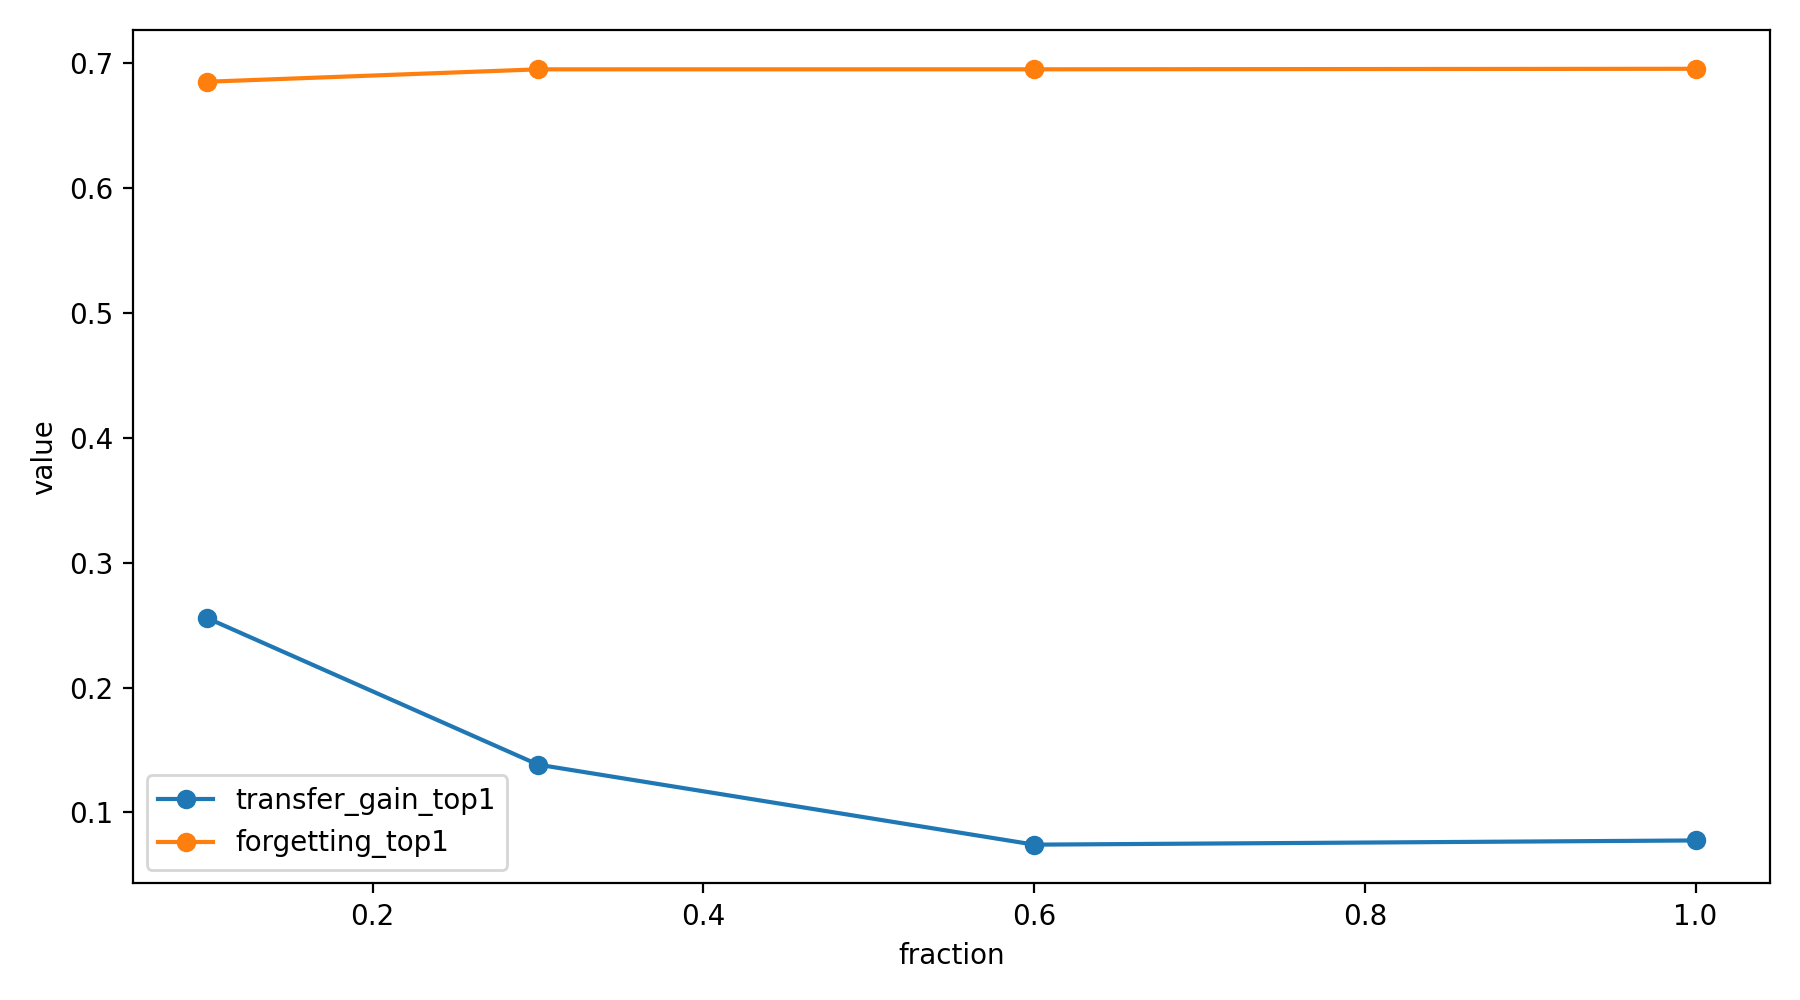
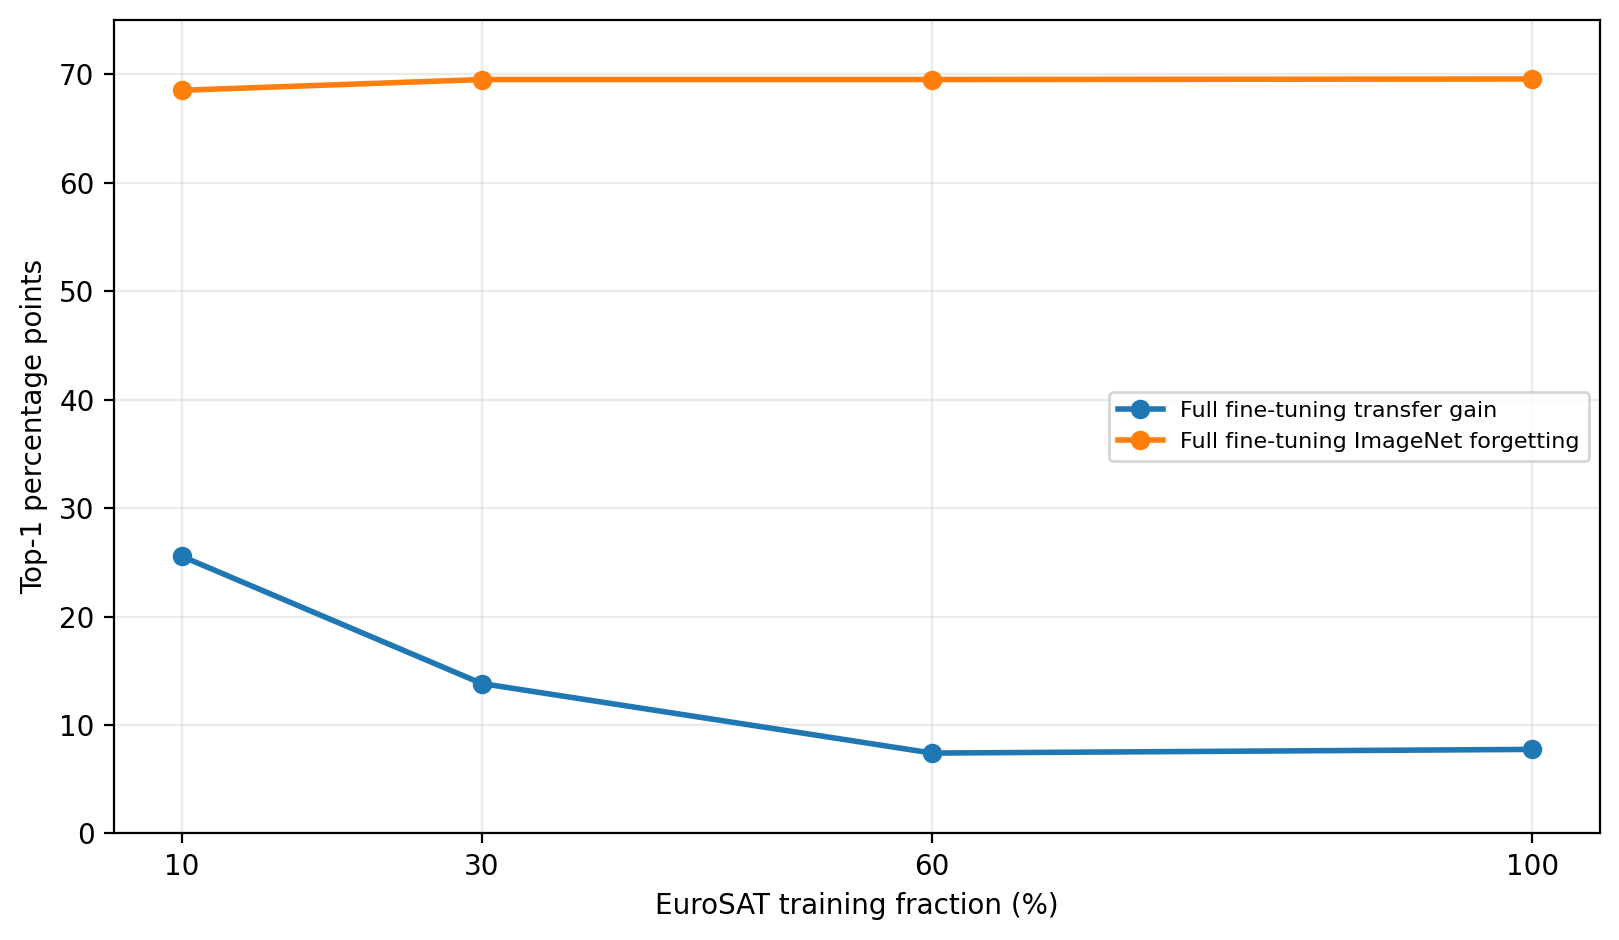
first version

Changed region(s): [[0.0, 0.0, 1.0, 0.9255], [0.4015, 0.9255, 0.6485, 0.9872], [0.3088, 0.7404, 0.4632, 0.8021]]

diff --git a/report.md b/report.md
@@ -62,7 +62,7 @@ All datasets are converted to tensors and normalized with ImageNet mean and stan
 
 Unless overridden, all runs use the shared `configs/base.yaml` settings: seed 42, batch size 32, 8 epochs, AdamW, learning rate 3e-4, and weight decay 1e-4. Each training run follows the standard supervised learning pipeline: images are passed through the network to produce class logits, cross-entropy loss compares these logits with the ground-truth labels, backpropagation computes gradients for the trainable parameters, and AdamW updates those parameters while applying weight decay regularization. The difference between strategies is therefore not the learning objective, but which parameters are allowed to receive gradient updates.
 
-Validation is used to monitor generalization during training. The best checkpoint is selected by validation top-1 accuracy rather than final-epoch accuracy, because the validation set gives an estimate of performance on unseen data and reduces dependence on a single last epoch. Top-1 accuracy is the primary metric throughout the report because all downstream tasks are single-label classification tasks with balanced sampling. Macro-F1 is reported as a secondary check of class-balanced performance in the main strategy and domain-gap experiments. The data-size experiments focus on top-1 trends for compactness. Transfer gain is computed against the training-from-scratch baseline, and forgetting is measured as the ImageNet performance drop after downstream adaptation. Loss curves are used only as diagnostic evidence for training stability.
+Validation is used to monitor generalization during training. The best checkpoint is selected by validation top-1 accuracy rather than final-epoch accuracy, because the validation set gives an estimate of performance on unseen data and reduces dependence on a single last epoch. Top-1 accuracy is the primary metric throughout the report because all downstream tasks are single-label classification tasks with balanced sampling. Macro-F1 is reported as a secondary check of class-balanced performance in the main strategy, domain-gap, and corresponding forgetting experiments. The data-size experiments focus on top-1 trends for compactness. Transfer gain is computed against the training-from-scratch baseline, and forgetting is measured as the ImageNet performance drop after downstream adaptation. Loss curves are used only as diagnostic evidence for training stability.
 
 #### 3.4 Experiment Structure
 
@@ -297,7 +297,7 @@ The main limitation is that these experiments use a single architecture, one ran
 
 ### 7. Conclusion
 
-This project shows that ImageNet transfer can substantially improve EuroSAT classification, but only when the pretrained backbone is allowed to adapt. Partial fine-tuning gives the best overall balance of accuracy, efficiency, and source-task retention among the tested strategies.
+This project shows that ImageNet transfer can substantially improve EuroSAT classification, but only when the pretrained backbone is allowed to adapt. Partial fine-tuning gives the strongest balance of EuroSAT accuracy and efficiency, while linear probing retains more ImageNet ability at the cost of weaker downstream performance.
 
 Transfer is most useful when labelled target data are limited or when the target domain is closer to ImageNet. However, stronger adaptation also causes severe catastrophic forgetting on the original ImageNet task. Future work should therefore focus on mitigation methods that preserve source-task performance while retaining the downstream gains of fine-tuning.
 
